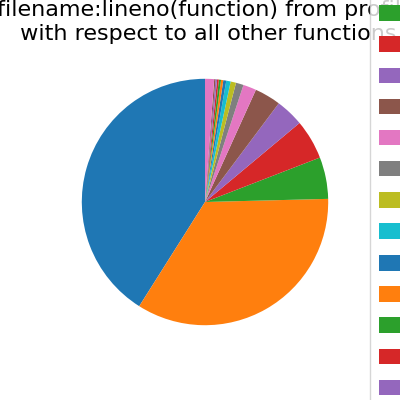
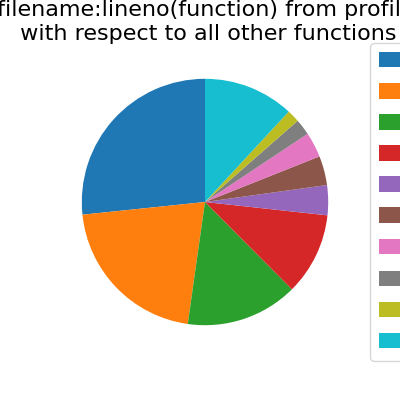
Remove BoltzmannProbs_tensorflow to test addBias and HardThreshold

Changed region(s): [[0.21, 0.18, 0.84, 0.84], [0.9, 0.0, 1.0, 0.99]]

diff --git a/workspace/src/main/rbm.py b/workspace/src/main/rbm.py
@@ -8,17 +8,14 @@ print("Go me")
 
 
 def boltzmannProbs(W, x):      # RETURNS THE PROBABILITY OF A NODE BEING ON
-    if type(x) is int or type(x) is float or x.shape is ():
-        mult = tf.multiply(W, x)
-    else:
-        mult = tf.tensordot(W, x, 1)
-    E_on  = tf.negative(mult)       #penalty is the negative of the reward (just to make it look like energy)
+    E_on  = -np.dot(W,x)       #penalty is the negative of the reward (just to make it look like energy)
     E_off = 0.0*E_on
-    Q_on = tf.math.exp(-E_on)       #as energy is negated, we have e^(reward)
-    Q_off = tf.math.exp(-E_off)
-    P_on = tf.math.divide(Q_on, tf.math.add(Q_on, Q_off))
-    # P_on = Q_on / (Q_on + Q_off)
-    return P_on.numpy()
+
+    Q_on = np.exp(-E_on)       #as energy is negated, we have e^(reward)
+    Q_off = np.exp(-E_off)
+
+    P_on = Q_on / (Q_on + Q_off)
+    return P_on
 
 
 def trainPriorBias(hids):      # SEEMS TO CONCATENATE AND NORMALISE THE HIDDEN UNIT VALUES

diff --git a/workspace/optimisationResults/displayStats.py b/workspace/optimisationResults/displayStats.py
@@ -110,8 +110,8 @@ if __name__ == '__main__':
     #print(plt.rcParams.keys())
     col = "tottime"
     label_col = "filename:lineno(function)"
-    num_items = 16
-    data = pd.read_csv("learnCPU.csv")
+    num_items = 9
+    data = pd.read_csv("_2020_06_22_21_23_38/profile_csv.csv")
     result = get_set_of_items(data, num_items, col)
 
     display_figure(1, num_items, col, label_col, result[0])
